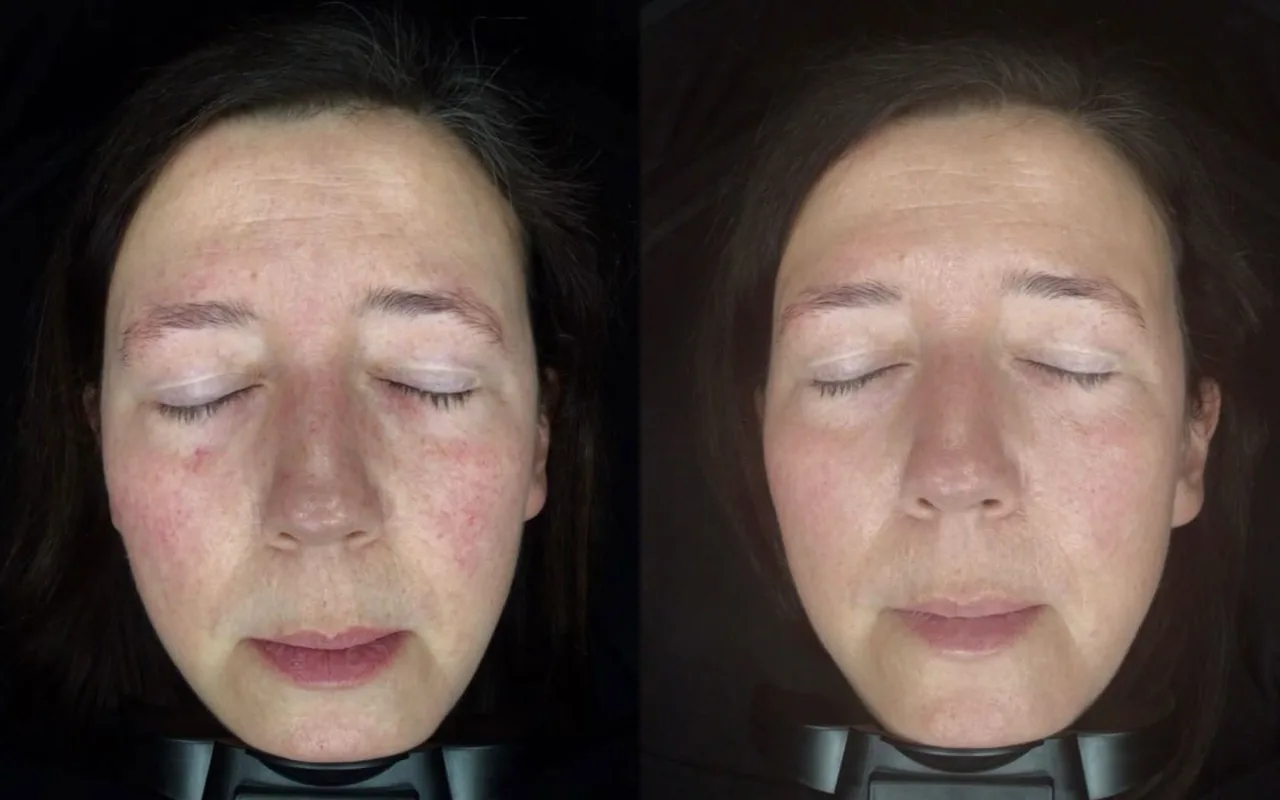
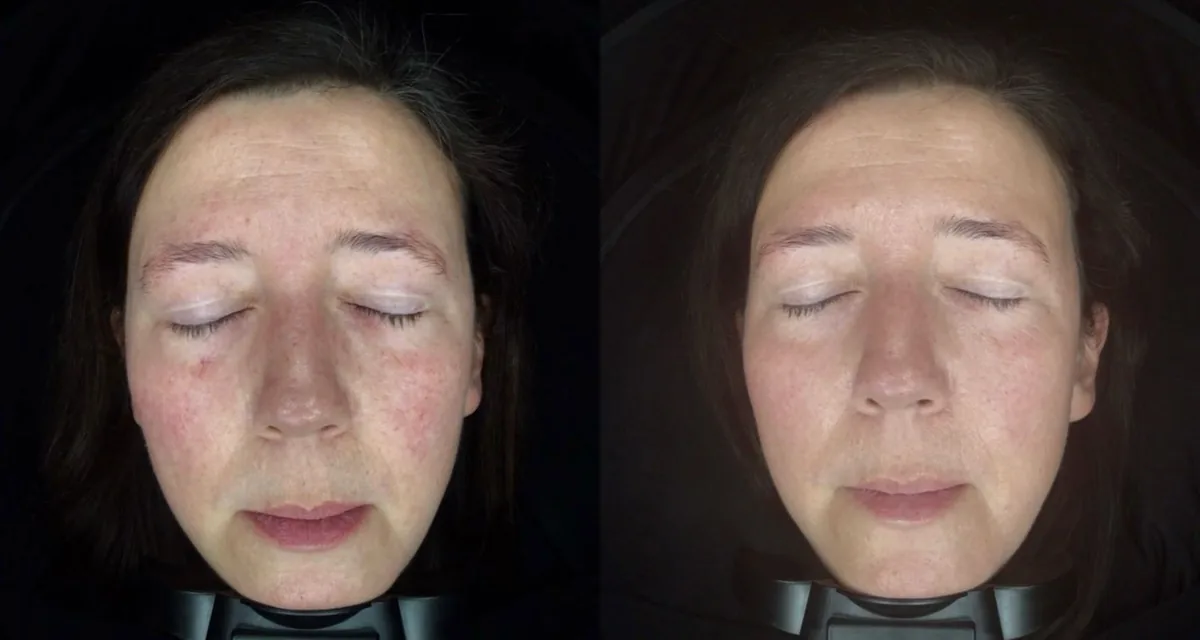
Expand BBL results, real treatment photo and redesigned enquiry CTA
- Move the before/after section directly below the reviews
- Standardise all three before/after cases to one size and aspect ratio
  (pigmentation, freckling, redness), with consistent Before/After labels
- Add a genuine third case (freckling and sun spots)
- Replace the how-it-works image with a real Sciton BBL HERO treatment photo
- Redesign the enquiry section with a "Prefer to talk?" panel (call, email,
  visit, hours) alongside the booking form

Claude-Session: https://claude.ai/code/session_012FJsvRhZLAuAHAsYnZx9dQ

diff --git a/bbl/index.html b/bbl/index.html
@@ -394,6 +394,25 @@ header{position:sticky; top:0; z-index:60; background:rgba(30,58,87,.94); backdr
 .enquire-bg{position:absolute; inset:0; z-index:-2; width:100%; height:100%; object-fit:cover; object-position:right}
 .enquire::before{content:""; position:absolute; inset:0; z-index:-1; background:linear-gradient(100deg,var(--porcelain) 42%, rgba(251,248,243,.7) 58%, rgba(251,248,243,.1))}
 .form-card{background:var(--paper); border:1px solid var(--line); border-radius:var(--r); padding:clamp(28px,4vw,46px); max-width:600px; box-shadow:0 40px 80px -50px rgba(30,58,87,.6)}
+.enq-grid{display:grid; grid-template-columns:1.25fr .85fr; gap:clamp(20px,3vw,30px); align-items:stretch}
+.enq-grid .form-card{max-width:none}
+@media(max-width:900px){.enq-grid{grid-template-columns:1fr}}
+.talk-panel{background:var(--pine-deep); color:var(--porcelain); border:1px solid rgba(255,255,255,.08); border-radius:var(--r); padding:clamp(24px,3vw,34px); display:flex; flex-direction:column; box-shadow:0 40px 80px -50px rgba(30,58,87,.6)}
+.talk-panel .eyebrow{color:var(--sage)} .talk-panel .eyebrow::before{background:var(--sage)}
+.talk-panel h3{color:var(--porcelain); margin:12px 0 2px; font-size:clamp(1.3rem,2vw,1.6rem)}
+.talk-panel .sub{color:rgba(251,248,243,.72); font-size:.94rem}
+.talk-list{display:grid; gap:12px; margin-top:22px}
+.talk-item{display:flex; gap:14px; align-items:center; background:rgba(251,248,243,.06); border:1px solid rgba(251,248,243,.12); border-radius:12px; padding:13px 15px; transition:background .2s ease, transform .2s ease}
+a.talk-item:hover{background:rgba(251,248,243,.11); transform:translateY(-1px)}
+.talk-item .ti{flex:0 0 auto; width:44px; height:44px; border-radius:11px; display:grid; place-items:center; color:#fff}
+.talk-item .ti.call{background:var(--clay)}
+.talk-item .ti.mail{background:var(--sage)}
+.talk-item .ti.pin{background:var(--pine)}
+.talk-item .ti.hrs{background:rgba(251,248,243,.16)}
+.talk-item .tl{font-size:.64rem; text-transform:uppercase; letter-spacing:.12em; color:var(--sage); font-weight:700; display:block; margin-bottom:2px}
+.talk-item b{font-size:.98rem; color:var(--porcelain); font-weight:700; line-height:1.3; overflow-wrap:anywhere}
+.talk-foot{margin-top:auto; padding-top:20px; border-top:1px solid rgba(251,248,243,.14); font-size:.9rem; color:rgba(251,248,243,.8); line-height:1.55}
+.talk-foot b{color:var(--porcelain)}
 
 /* ---------- Footer ---------- */
 footer{background:var(--pine-deep); color:rgba(251,248,243,.78)}
@@ -574,6 +593,42 @@ height="0" width="0" style="display:none;visibility:hidden"></iframe></noscript>
   </div>
 </section>
 
+<!-- Before & After -->
+<section class="results section" id="results">
+  <div class="wrap">
+    <div class="reviews-head">
+      <div>
+        <span class="eyebrow">Before &amp; after</span>
+        <h2 style="margin-top:14px">Real skin,<br>real results</h2>
+      </div>
+      <div class="carousel-nav">
+        <button class="cbtn" data-prev aria-label="Previous result"><svg width="20" height="20" viewBox="0 0 24 24" fill="none" stroke="currentColor" stroke-width="2"><path d="M15 18l-6-6 6-6"/></svg></button>
+        <button class="cbtn" data-next aria-label="Next result"><svg width="20" height="20" viewBox="0 0 24 24" fill="none" stroke="currentColor" stroke-width="2"><path d="M9 18l6-6-6-6"/></svg></button>
+      </div>
+    </div>
+    <div class="carousel" data-carousel>
+      <div class="ba-track" data-track>
+        <figure class="ba-fig">
+          <div class="shot"><img loading="lazy" src="/assets/img/bbl-ba-pigment.webp" alt="Before and after Sciton BBL HERO at London Real Skin, sun damage and pigmentation"><span class="ba-lab b">Before</span><span class="ba-lab a">After</span></div>
+          <figcaption><b>Sun damage &amp; pigmentation</b>Brown spots and uneven tone visibly reduced for a clearer, more even complexion.</figcaption>
+        </figure>
+        <figure class="ba-fig">
+          <div class="shot"><img loading="lazy" src="/assets/img/bbl-ba-freckles.webp" alt="Before and after Sciton BBL HERO at London Real Skin, freckling and sun spots"><span class="ba-lab b">Before</span><span class="ba-lab a">After</span></div>
+          <figcaption><b>Freckling &amp; sun spots</b>Clearer, more even skin as heavy freckling and sun damage visibly fade.</figcaption>
+        </figure>
+        <figure class="ba-fig">
+          <div class="shot"><img loading="lazy" src="/assets/img/bbl-ba-patient.webp" alt="Before and after Sciton BBL HERO at London Real Skin, facial redness"><span class="ba-lab b">Before</span><span class="ba-lab a">After</span></div>
+          <figcaption><b>Redness &amp; uneven tone</b>Calmer, clearer skin with noticeably reduced redness after a course of BBL HERO.</figcaption>
+        </figure>
+      </div>
+    </div>
+    <div class="results-foot">
+      <p class="disclaimer">All photos are of actual patients of London Real Skin and are displayed with their consent. The outcomes shown are relevant only for these patients and do not necessarily reflect the results other patients may experience. Your practitioner will discuss any factors that could influence your own results.</p>
+      <a href="#enquire" class="btn btn--clay results-cta">Book a free consultation</a>
+    </div>
+  </div>
+</section>
+
 <!-- 4. One-liner -->
 <section class="oneliner section">
   <div class="wrap grid-split">
@@ -603,38 +658,6 @@ height="0" width="0" style="display:none;visibility:hidden"></iframe></noscript>
   </div>
 </section>
 
-<!-- Before & After -->
-<section class="results section" id="results">
-  <div class="wrap">
-    <div class="reviews-head">
-      <div>
-        <span class="eyebrow">Before &amp; after</span>
-        <h2 style="margin-top:14px">Real skin,<br>real results</h2>
-      </div>
-      <div class="carousel-nav">
-        <button class="cbtn" data-prev aria-label="Previous result"><svg width="20" height="20" viewBox="0 0 24 24" fill="none" stroke="currentColor" stroke-width="2"><path d="M15 18l-6-6 6-6"/></svg></button>
-        <button class="cbtn" data-next aria-label="Next result"><svg width="20" height="20" viewBox="0 0 24 24" fill="none" stroke="currentColor" stroke-width="2"><path d="M9 18l6-6-6-6"/></svg></button>
-      </div>
-    </div>
-    <div class="carousel" data-carousel>
-      <div class="ba-track" data-track>
-        <figure class="ba-fig">
-          <div class="shot"><img loading="lazy" src="/assets/img/bbl-ba.webp" alt="Before and after Sciton BBL HERO at London Real Skin, sun damage and pigmentation"></div>
-          <figcaption><b>Sun damage &amp; pigmentation</b>Brown spots and uneven tone visibly reduced for a clearer, more even complexion.</figcaption>
-        </figure>
-        <figure class="ba-fig">
-          <div class="shot"><img loading="lazy" src="/assets/img/bbl-ba-patient.webp" alt="Before and after Sciton BBL HERO at London Real Skin, facial redness"><span class="ba-lab b">Before</span><span class="ba-lab a">After</span></div>
-          <figcaption><b>Redness &amp; uneven tone</b>Calmer, clearer skin with noticeably reduced redness after a course of BBL HERO.</figcaption>
-        </figure>
-      </div>
-    </div>
-    <div class="results-foot">
-      <p class="disclaimer">All photos are of actual patients of London Real Skin and are displayed with their consent. The outcomes shown are relevant only for these patients and do not necessarily reflect the results other patients may experience. Your practitioner will discuss any factors that could influence your own results.</p>
-      <a href="#enquire" class="btn btn--clay results-cta">Book a free consultation</a>
-    </div>
-  </div>
-</section>
-
 <!-- 5. How it works -->
 <section class="how section" id="how">
   <div class="wrap grid-split">
@@ -650,7 +673,7 @@ height="0" width="0" style="display:none;visibility:hidden"></iframe></noscript>
       <a href="#enquire" class="btn btn--pine" style="margin-top:30px">Book a free consultation</a>
     </div>
     <div class="how-img ro">
-      <img loading="lazy" src="/assets/img/bbl-treatment.webp" alt="A practitioner performing a BBL HERO BroadBand Light treatment">
+      <img loading="lazy" src="/assets/img/bbl-how.webp" alt="A practitioner performing a Sciton BBL HERO treatment at London Real Skin">
     </div>
   </div>
 </section>
@@ -895,6 +918,7 @@ height="0" width="0" style="display:none;visibility:hidden"></iframe></noscript>
 <section class="enquire section" id="enquire">
   <img loading="lazy" decoding="async" class="enquire-bg" src="/assets/img/bbl-enquiry-bg.webp" onerror="this.onerror=null;this.src='/assets/img/mn-enquiry-bg.webp'" alt="">
   <div class="wrap">
+    <div class="enq-grid">
     <div class="form-card">
       <span class="eyebrow">Book a free consultation</span>
       <h2 style="margin-top:14px; font-size:clamp(1.8rem,3vw,2.6rem)">Let's take a proper look at your skin</h2>
@@ -925,6 +949,31 @@ height="0" width="0" style="display:none;visibility:hidden"></iframe></noscript>
         })();
       </script>
       <script src="https://link.msgsndr.com/js/form_embed.js"></script>
+    </div>
+    <aside class="talk-panel">
+      <span class="eyebrow">Prefer to talk?</span>
+      <h3>We're here to help</h3>
+      <p class="sub">Speak to our friendly reception team directly.</p>
+      <div class="talk-list">
+        <a class="talk-item" href="tel:+442071835892">
+          <span class="ti call"><svg width="20" height="20" viewBox="0 0 24 24" fill="none" stroke="currentColor" stroke-width="2"><path d="M5 4h4l2 5-3 2a12 12 0 006 6l2-3 5 2v4a2 2 0 01-2 2A16 16 0 013 6a2 2 0 012-2z"/></svg></span>
+          <span><span class="tl">Call the clinic</span><b>020 7183 5892</b></span>
+        </a>
+        <a class="talk-item" href="mailto:info@londonrealskin.com">
+          <span class="ti mail"><svg width="20" height="20" viewBox="0 0 24 24" fill="none" stroke="currentColor" stroke-width="2"><path d="M22 6l-10 7L2 6"/><rect x="2" y="4" width="20" height="16" rx="2"/></svg></span>
+          <span><span class="tl">Email us</span><b>info@londonrealskin.com</b></span>
+        </a>
+        <a class="talk-item" href="https://www.google.com/maps/search/?api=1&amp;query=233+High+Holborn+London+WC1V+7DN" target="_blank" rel="noopener">
+          <span class="ti pin"><svg width="20" height="20" viewBox="0 0 24 24" fill="none" stroke="currentColor" stroke-width="2"><path d="M12 21s-7-4.5-7-11a7 7 0 0114 0c0 6.5-7 11-7 11z"/><circle cx="12" cy="10" r="2.5"/></svg></span>
+          <span><span class="tl">Visit us in Holborn</span><b>233 High Holborn, WC1V 7DN</b></span>
+        </a>
+        <div class="talk-item" style="cursor:default">
+          <span class="ti hrs"><svg width="20" height="20" viewBox="0 0 24 24" fill="none" stroke="currentColor" stroke-width="2"><circle cx="12" cy="12" r="9"/><path d="M12 7v5l3 2"/></svg></span>
+          <span><span class="tl">Opening hours</span><b>Mon to Sat, by appointment</b></span>
+        </div>
+      </div>
+      <div class="talk-foot">Every consultation is <b>free and no obligation</b>. We'll look at your skin and advise whether BBL HERO is right for you.</div>
+    </aside>
     </div>
   </div>
 </section>
